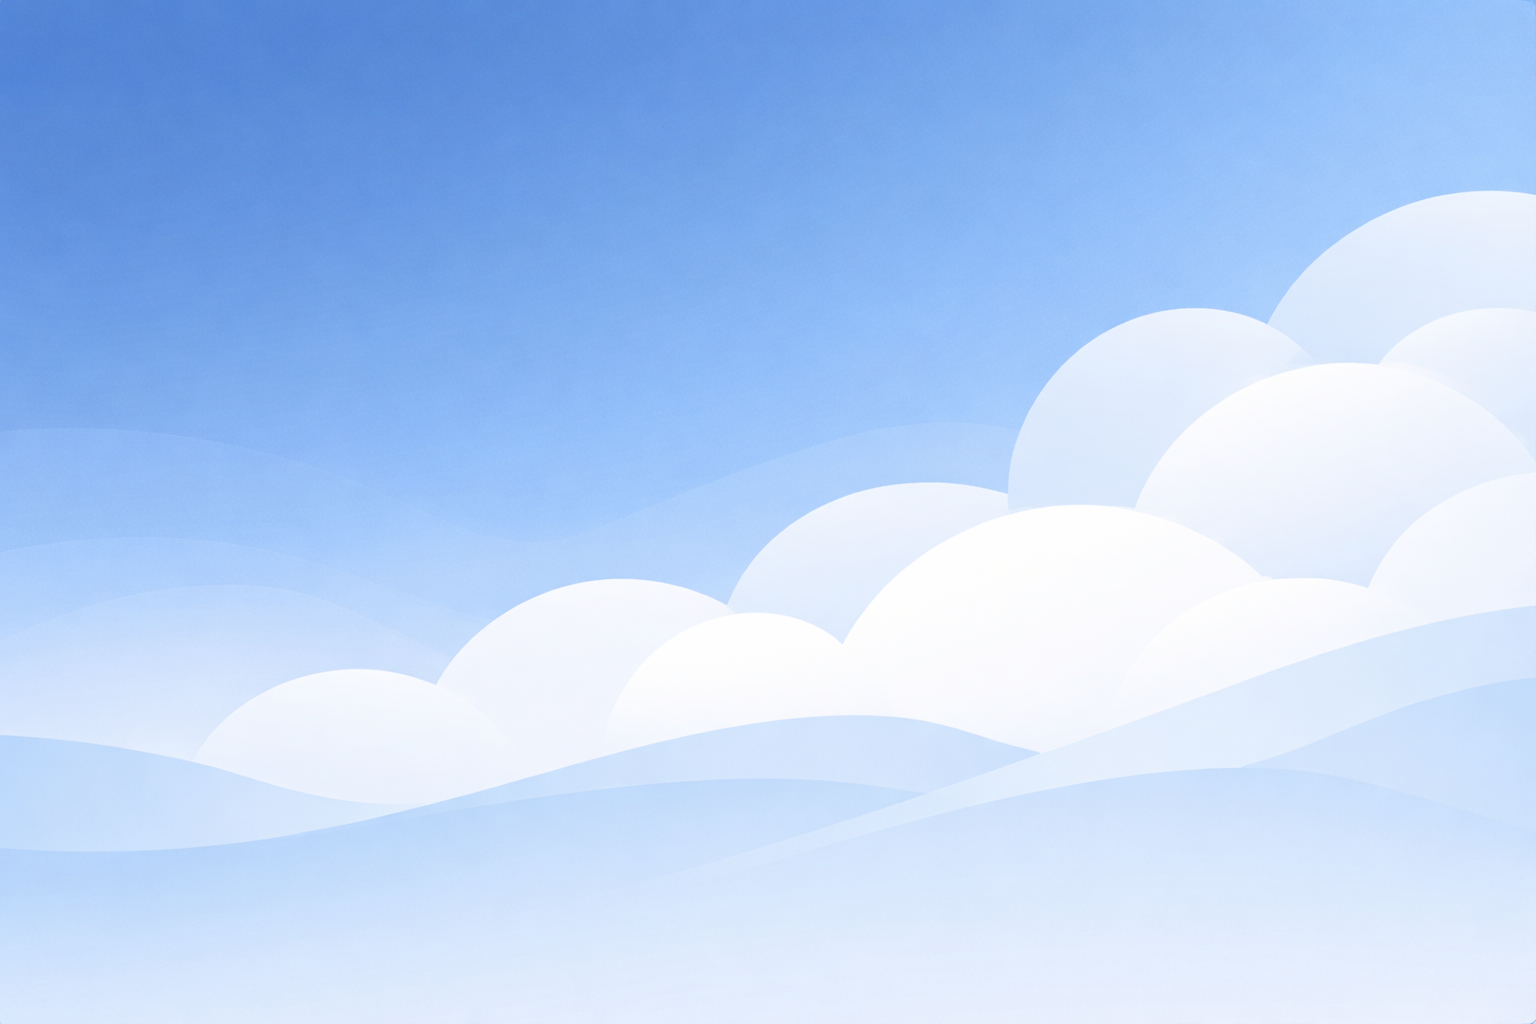
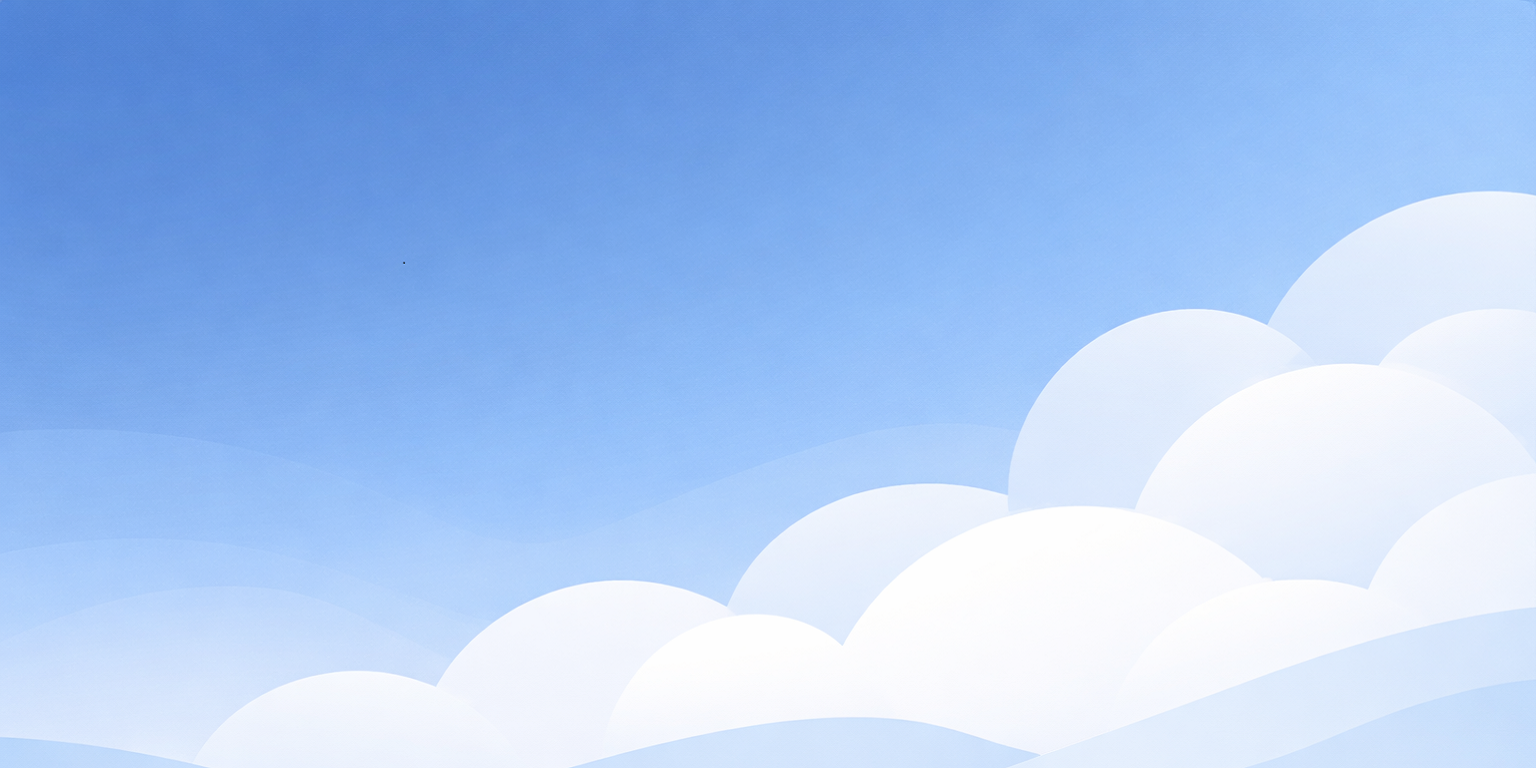
improved display of right card of dashboard

diff --git a/front/src/app/features/arc-section/arc-card/arc-card-container/arc-card-container.css b/front/src/app/features/arc-section/arc-card/arc-card-container/arc-card-container.css
@@ -2,8 +2,9 @@ mat-card.arc-card-container {
     padding: 0;
     overflow: hidden;
     border-radius: 16px;
-    border: 1px solid var(--color-border);
-    box-shadow: 0 4px 16px var(--color-primary-shadow), 0 1px 4px rgba(0, 0, 0, 0.08);
+    border: none;
+    background-color: var(--color-primary);
+    box-shadow: 0 8px 32px rgba(37, 99, 235, 0.35), 0 2px 8px rgba(0, 0, 0, 0.15);
 }
 
 .image-wrapper {
@@ -11,63 +12,82 @@ mat-card.arc-card-container {
 }
 
 .image-wrapper img {
-    display: block;
     width: 100%;
     height: auto;
     border-radius: 16px 16px 0 0;
+    opacity: 0.3;
 }
 
-.image-text {
+.card-header {
     position: absolute;
-    color: var(--color-surface);
-    text-shadow: 0 1px 4px rgba(0, 0, 0, 0.5);
+    inset: 0;
+    padding: 1.25rem;
+    gap: 0;
 }
 
-.image-text.top {
-    top: 1rem;
-    left: 1rem;
-}
-
-.image-text.bottom {
-    bottom: 0;
-    right: 0;
-    left: 0;
-}
-
-.content-container {
-    display: block;
-    padding: 12px 16px;
-}
-
-.number-chapters {
-    font-size: 1.1rem;
-    color: var(--color-text-secondary);
-    margin: 0 !important;
-    padding: 0 !important;
-}
-
-.button-container {
-    justify-content: center;
-    padding: 8px 0 12px !important;
-    margin: 0 !important;
-}
-
-.button-container app-primary-btn {
-    width: 85%;
+.current-arc-label {
+    font-size: 0.75rem;
+    font-weight: 700;
+    letter-spacing: 0.1em;
+    text-transform: uppercase;
+    color: white;
+    margin-bottom: 6px;
 }
 
 .arc-name {
-    font-size: 1.45rem;
-    font-weight: 700;
+    font-size: 1.75rem;
+    font-weight: 800;
+    color: white;
+    line-height: 1.15;
+    margin-bottom: 6px;
 }
 
 .arc-date {
-    font-size: 0.95rem;
-    opacity: 0.9;
+    gap: 6px;
+    color: rgba(255, 255, 255, 0.85);
+    font-size: 0.9rem;
 }
 
-.button-container mat-icon {
-    margin-left: 6px;
-    vertical-align: middle;
-    font-size: 1.1rem;
+.arc-date .calendar-icon {
+    font-size: 1rem;
+    width: 1rem;
+    height: 1rem;
+    line-height: 1;
+}
+
+.content-container {
+    background-color: var(--color-primary);
+    padding: 16px;
+    gap: 14px;
+}
+
+.progress-section {
+    gap: 8px;
+}
+
+.chapters-text {
+    color: rgba(242, 242, 255, 0.9);
+    font-size: 0.9rem;
+    font-weight: 500;
+}
+
+.progress-percent {
+    color: white;
+    font-size: 1.05rem;
+    font-weight: 700;
+}
+
+.progress-track {
+    width: 100%;
+    height: 8px;
+    background: rgba(255, 255, 255, 0.25);
+    border-radius: 999px;
+    overflow: hidden;
+}
+
+.progress-fill {
+    height: 100%;
+    background: white;
+    border-radius: 999px;
+    transition: width 0.4s ease;
 }

diff --git a/front/src/app/features/arc-section/arc-card/arc-card-container/arc-card-container.html b/front/src/app/features/arc-section/arc-card/arc-card-container/arc-card-container.html
@@ -1,26 +1,33 @@
 <mat-card class="arc-card-container">
     <div class="image-wrapper">
-        <img ngSrc="/arc-background.png" alt="arc-background" height="1024" width="1536" priority/>
-        <div class="image-text top">
+        <img class="block" ngSrc="/arc-background.png" alt="arc-background" height="768" width="1536" priority/>
+        <div class="card-header flex flex-col justify-start">
+            <span class="current-arc-label">Current Arc</span>
             <span class="arc-name">{{ name() }}</span>
-            <br/>
-            <span class="arc-date"> {{ formatDateShort(arc().startDate) }} → {{ formatDateShort(arc().endDate) }} </span>
-        </div>
-        <div class="image-text bottom">
-            <app-arc-progress-bar [progress]="progress"/>
+            <div class="arc-date flex items-center">
+                <mat-icon class="calendar-icon">calendar_today</mat-icon>
+                <span>{{ formatDateShort(arc().startDate) }} → {{ formatDateShort(arc().endDate) }}</span>
+            </div>
         </div>
     </div>
-    <span class="content-container">
-        @if (nbChapterTotal() > 0) {
-            <mat-card-content class="number-chapters">
-                {{ nbChapterCompleted() }} / {{ nbChapterTotal() }} chapters completed!
-            </mat-card-content>
-        }
+    <div class="content-container flex flex-col">
+        <div class="progress-section flex flex-col">
+            <div class="progress-header flex justify-between items-center">
+                @if (nbChapterTotal() > 0) {
+                    <span class="chapters-text">{{ nbChapterCompleted() }} / {{ nbChapterTotal() }} chapters</span>
+                } @else {
+                    <span class="chapters-text">No chapters yet</span>
+                }
+                <span class="progress-percent">{{ progress }}%</span>
+            </div>
+            <div class="progress-track">
+                <div class="progress-fill" [style.width.%]="progress"></div>
+            </div>
+        </div>
         <mat-card-actions class="button-container">
-            <app-primary-btn [fullWidth]="true" routerLink="/arc">
-                View Arc
-                <mat-icon>arrow_right_alt</mat-icon>
+            <app-primary-btn [fullWidth]="true" [light]="true" routerLink="/arc">
+                View arc
             </app-primary-btn>
         </mat-card-actions>
-    </span>
+    </div>
 </mat-card>

diff --git a/front/src/app/features/arc-section/arc-card/arc-card-container/arc-card-container.ts b/front/src/app/features/arc-section/arc-card/arc-card-container/arc-card-container.ts
@@ -1,8 +1,7 @@
 import {Component, computed, input} from '@angular/core';
-import {MatCard, MatCardActions, MatCardContent} from '@angular/material/card';
+import {MatCard, MatCardActions} from '@angular/material/card';
 import {NgOptimizedImage} from '@angular/common';
 import {formatDateShort} from '../../../../utils/date.utils';
-import {ArcProgressBar} from '../arc-progress-bar/arc-progress-bar';
 import {MatIcon} from '@angular/material/icon';
 import {Arc} from '../../../../models/arc.model';
 import {PrimaryButton} from '../../../../shared/primary-button/primary-button';
@@ -11,10 +10,8 @@ import {PrimaryButton} from '../../../../shared/primary-button/primary-button';
     selector: 'app-arc-card-container',
     imports: [
         MatCard,
-        MatCardContent,
         MatCardActions,
         NgOptimizedImage,
-        ArcProgressBar,
         MatIcon,
         PrimaryButton,
     ],

diff --git a/front/src/app/shared/primary-button/primary-button.ts b/front/src/app/shared/primary-button/primary-button.ts
@@ -8,6 +8,7 @@ import {RouterLink} from '@angular/router';
     styleUrl: './primary-button.css',
     host: {
         '[style.display]': 'fullWidth ? "block" : null',
+        '[style.width]': 'fullWidth ? "100%" : null',
     },
 })
 export class PrimaryButton {
@@ -15,4 +16,5 @@ export class PrimaryButton {
     @Input() routerLink?: string | any[];
     @Input() disabled = false;
     @Input({ transform: booleanAttribute }) ghost = false;
+    @Input({ transform: booleanAttribute }) light = false;
 }

diff --git a/front/src/app/features/arc-view-page/arc-view-page.html b/front/src/app/features/arc-view-page/arc-view-page.html
@@ -10,7 +10,7 @@
         }
     </div>
 
-    <aside class="sidebar flex items-center md:flex-col md:items-start md:sticky md:top-0 md:h-screen md:justify-center">
+    <aside class="sidebar flex items-center md:flex-col md:items-start md:sticky md:top-0 md:h-screen md:justify-start">
         <app-arc-donut-chart class="w-1/2 md:w-full" [counts]="chapterCounts" />
         <div class="stats-wrapper flex flex-col w-1/2 md:w-full">
             <app-arc-tag-stats [tagStats]="tagStats()" />

diff --git a/front/src/app/shared/primary-button/primary-button.html b/front/src/app/shared/primary-button/primary-button.html
@@ -1,3 +1,3 @@
-<button class="btn" [disabled]="disabled" [class.full-width]="fullWidth" [class.ghost]="ghost" [routerLink]="routerLink ?? null">
+<button class="btn" [disabled]="disabled" [class.full-width]="fullWidth" [class.ghost]="ghost" [class.light]="light" [routerLink]="routerLink ?? null">
     <ng-content />
 </button>

diff --git a/front/src/app/shared/primary-button/primary-button.css b/front/src/app/shared/primary-button/primary-button.css
@@ -39,6 +39,16 @@
     color: var(--color-text);
 }
 
+.btn.light {
+    background-color: var(--color-surface);
+    color: var(--color-primary);
+    border: none;
+}
+
+.btn.light:hover {
+    background-color: var(--color-bg);
+}
+
 .btn.full-width {
     width: 100%;
     border-radius: 10px;

diff --git a/back/focusarc-docs/docs/TODO.md b/back/focusarc-docs/docs/TODO.md
@@ -11,8 +11,8 @@ title: V1 Roadmap
 - [ ] Move ids from DTO (eg: TaskCreationDto contains ChapterId, might be better to give that id at controller level)
 ## Frontend
 
-- [ ] Add a page to create an arc 
-- [ ] Add login / registration page
+- [X] Add a page to create an arc 
+- [X] Add login / registration page
 - [ ] Add front tests
 
 ## Future (post-v1)
